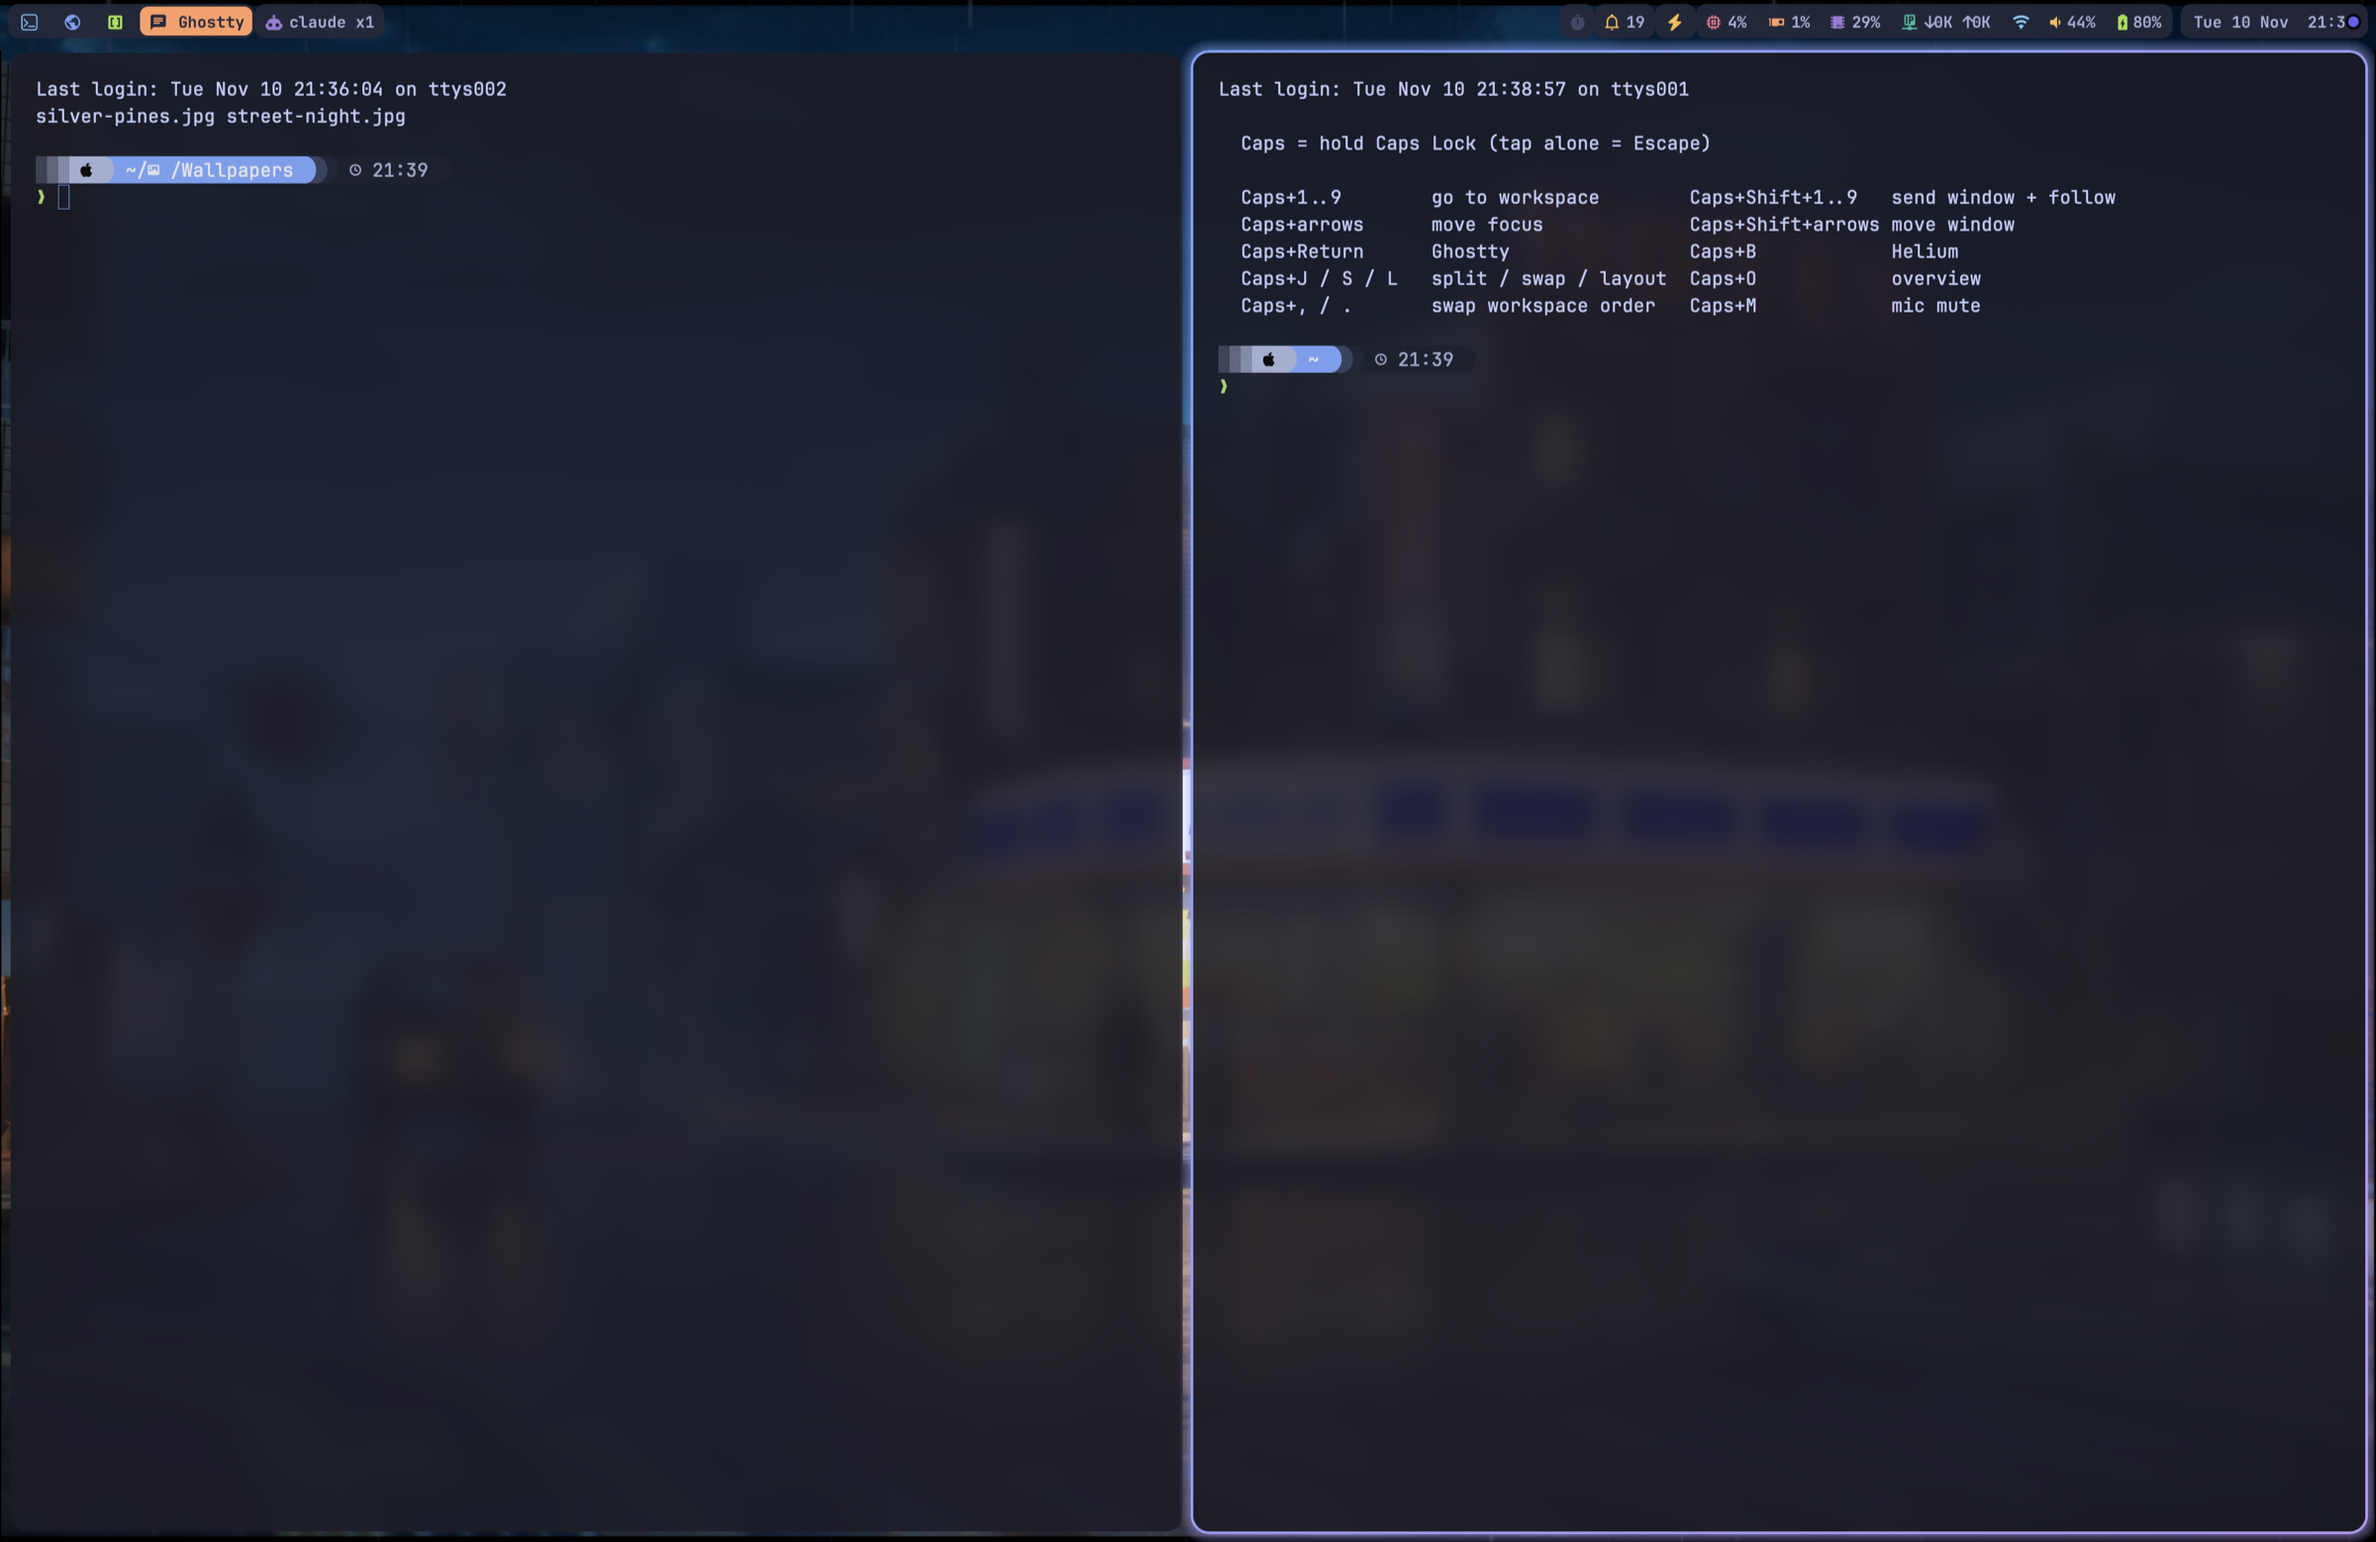
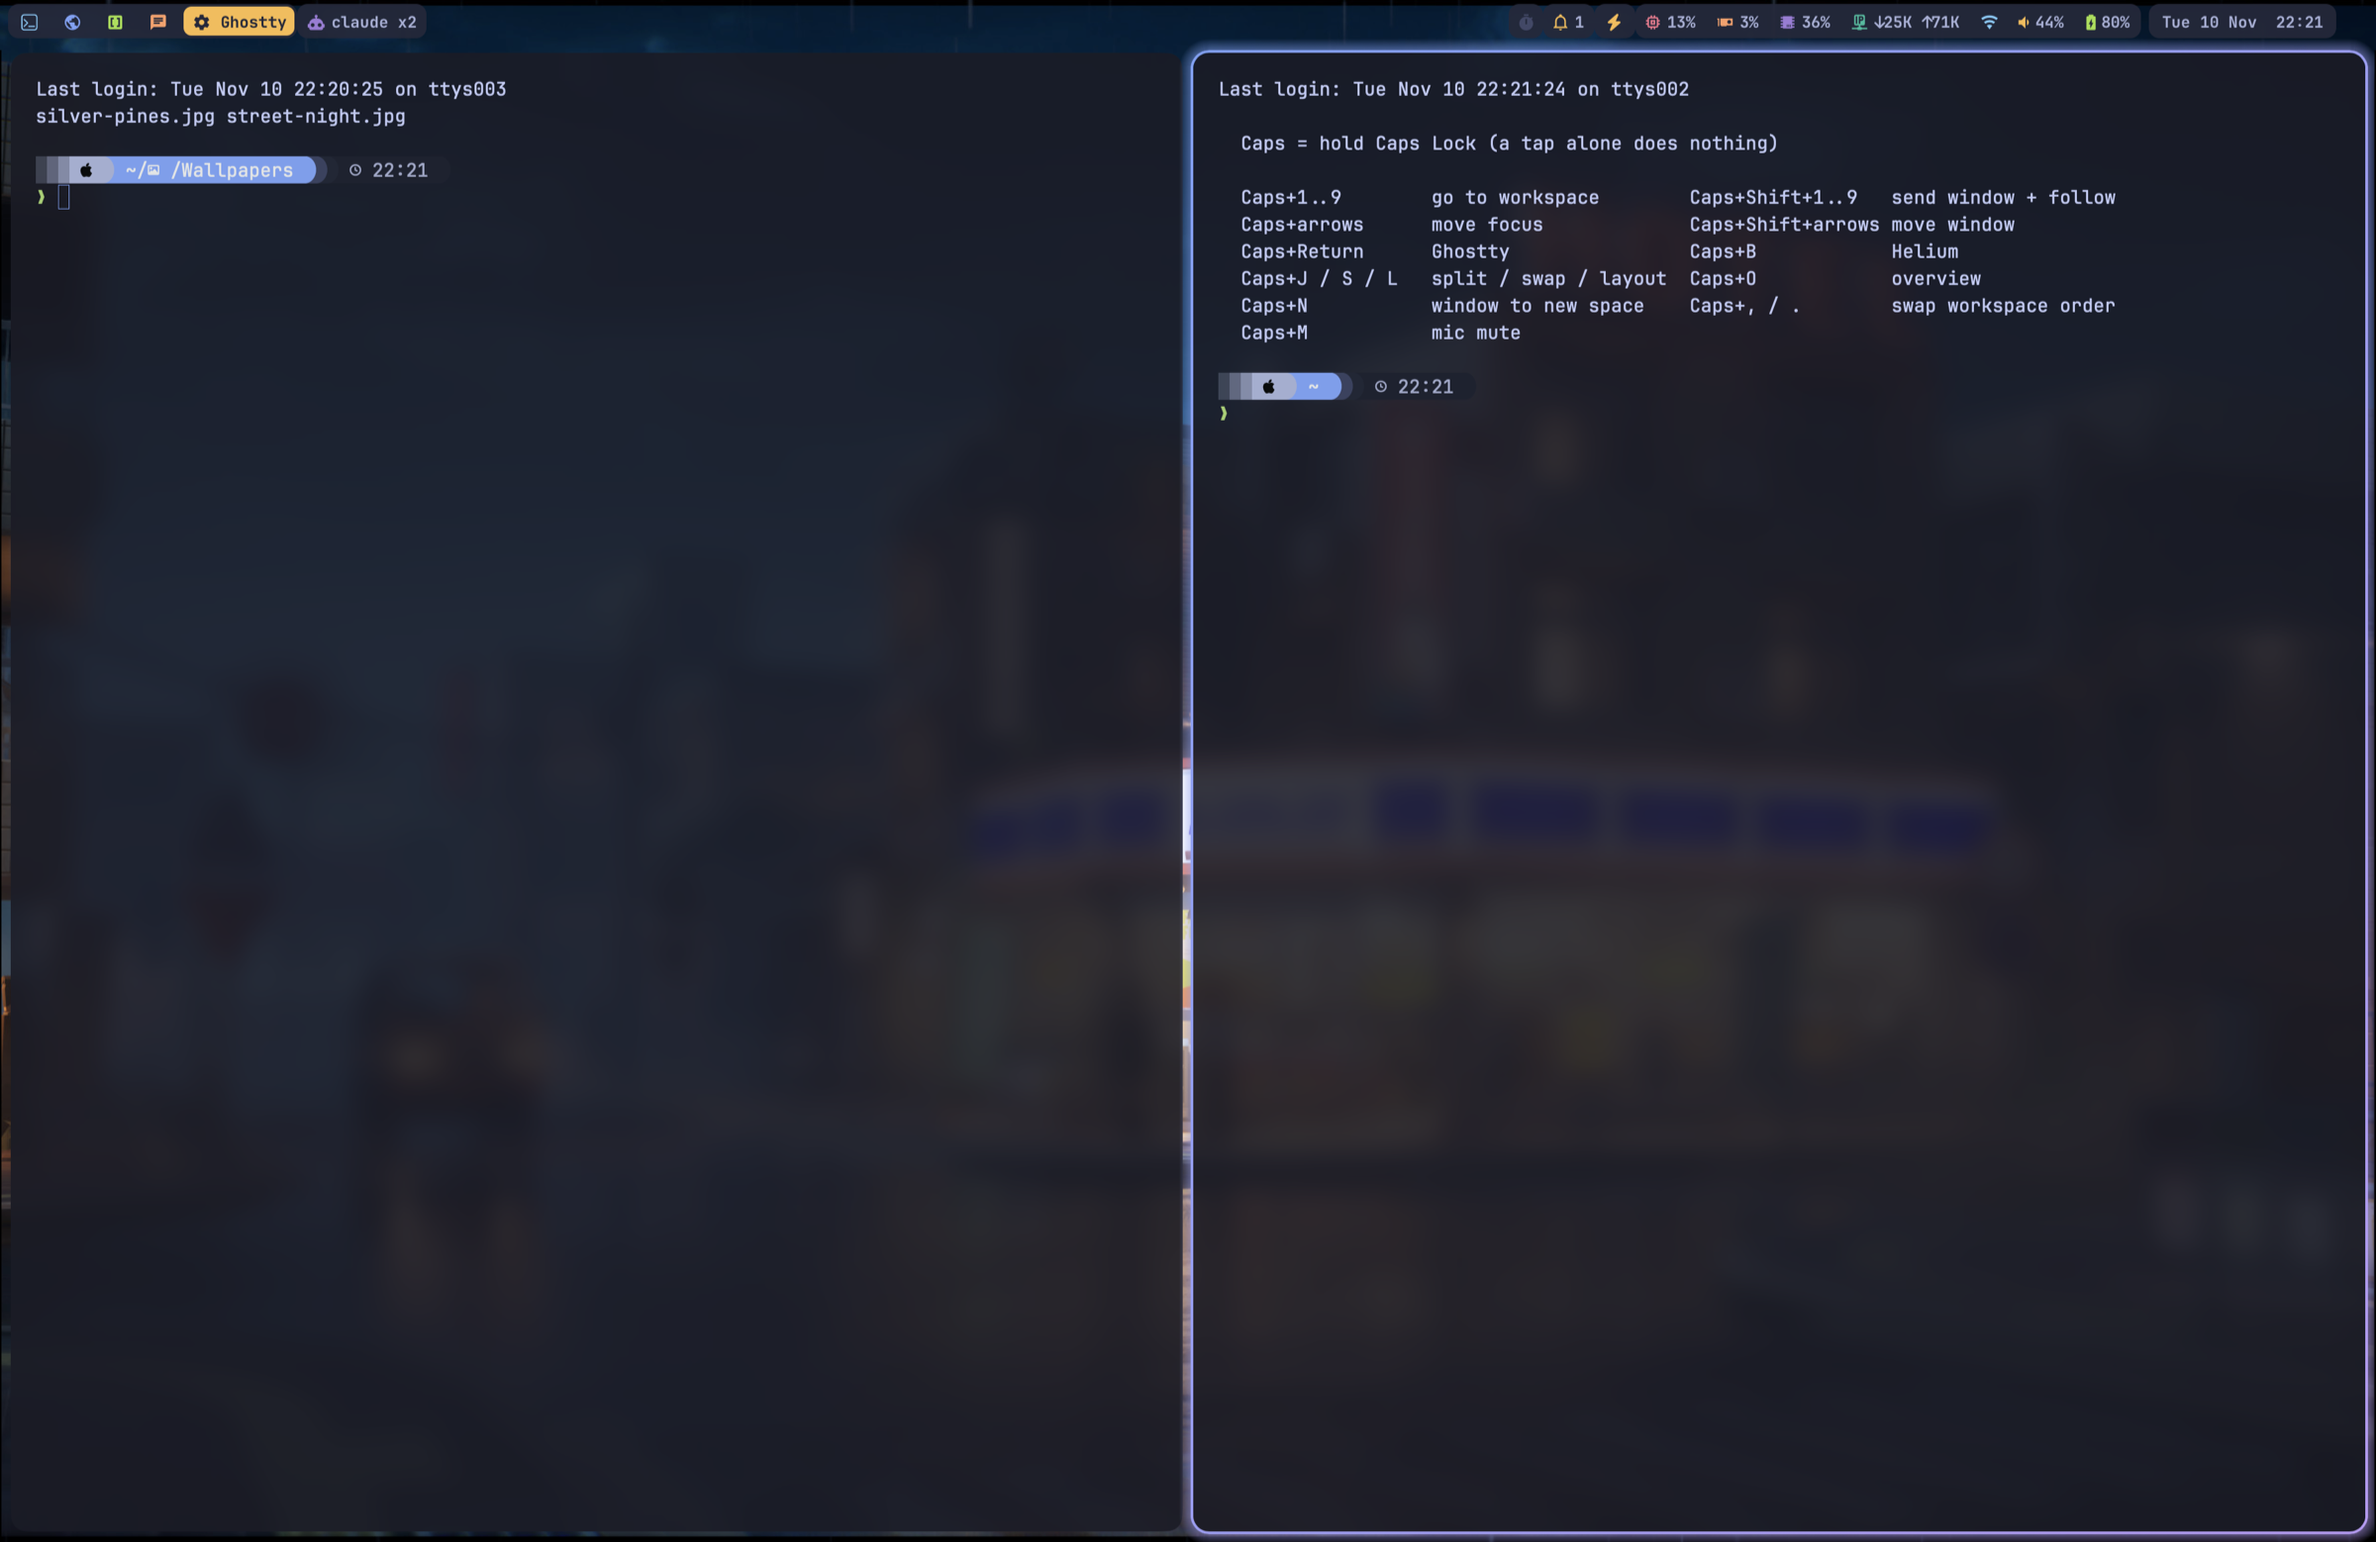
Caps tap no longer sends Escape; add Caps+N (window to new workspace); fresh screenshot; bar right padding

diff --git a/README.md b/README.md
@@ -14,7 +14,7 @@ Built and tested on an Apple Silicon MacBook Pro running macOS 26 (Tahoe), with 
 |---|---|---|
 | `omniwm/` | [OmniWM](https://omniwm.app) | Window manager. Dwindle (Hyprland-style) tiling, nine workspaces, focus border with a blue-to-purple gradient. Its own bar is off. |
 | `sketchybar/` | [SketchyBar](https://github.com/FelixKratz/SketchyBar) | The status bar, see below. |
-| `karabiner/` | [Karabiner-Elements](https://karabiner-elements.pqrs.org) | Caps Lock becomes Hyper (hold) or Escape (tap), plus app launchers and a few shell shortcuts. |
+| `karabiner/` | [Karabiner-Elements](https://karabiner-elements.pqrs.org) | Caps Lock becomes Hyper (hold; a tap alone does nothing, so it cannot interrupt a terminal program), plus app launchers and a few shell shortcuts. |
 | `ghostty/` | [Ghostty](https://ghostty.org) | Tokyo Night, translucent, JetBrainsMono Nerd Font. |
 | `starship/` | [Starship](https://starship.rs) | The `tokyo-night` preset. |
 | `bin/wallpaper` | | `wallpaper street`, `wallpaper next` or any image path. Wallpapers are not included. |
@@ -46,6 +46,7 @@ Workspaces close up automatically: close the last window on workspace 3 and work
 | Caps + Return, B, E | Ghostty, Helium (browser), Finder |
 | Caps + M | Toggle microphone mute |
 | Caps + , and . | Swap the workspace with the previous / next one |
+| Caps + N | Move the focused window to a new workspace and follow it |
 
 The app launchers are examples: edit the "Hyper app launchers" rule in `karabiner/karabiner.json` to open your own apps.
 
@@ -73,6 +74,7 @@ Things macOS makes you do by hand:
 - **Hidden SketchyBar items don't update** unless they have `updates=on`. Every item here that hides itself sets it.
 - **No real Caps Lock.** This setup gives that key to the shortcuts. Karabiner could not reliably toggle it back on this machine, so there is no Caps Lock mode.
 - **Paths.** `karabiner/karabiner.json` uses `__HOME__` placeholders, which the install script replaces. `ws-swap` and `mic-toggle` assume Homebrew at `/opt/homebrew`.
+- **Top-right indicator.** macOS draws its own screen/audio capture dot at the right end of the menu-bar area, over the bar. The bar keeps 30 pt of right padding (`padding_right` in `sketchybar/globalstyles.sh`) so the clock stays readable.
 - **Notification reader limits.** It only sees banners that actually appeared, so notifications silenced by a Focus mode never reach the bar.
 - The `omniwm/settings.toml` here includes the author's workspace and rule IDs. They are not secrets, but OmniWM regenerates its own on first run if you start fresh.
 
